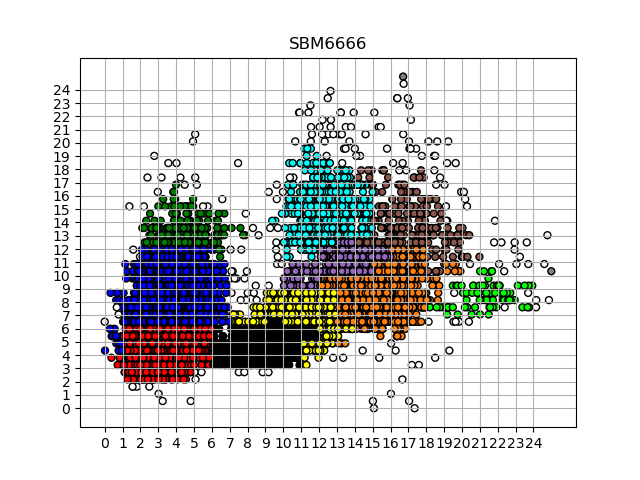
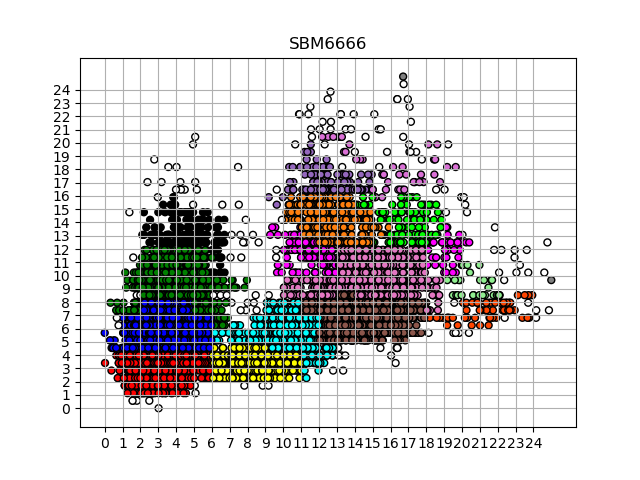
distance feature update

Changed region(s): [[0.1562, 0.1562, 0.875, 0.8438], [0.5625, 0.8125, 0.6562, 0.875], [0.2812, 0.2812, 0.3125, 0.3125]]

diff --git a/datasets.py b/datasets.py
@@ -66,6 +66,7 @@ def spike_preprocess(signal, spike_start, spike_length, align_to_peak, normalize
         return normalized_spikes
     return spikes
 
+
 def get_dataset_simulation_features(simNr, spike_length=79, align_to_peak=0, normalize_spike=False):
     """
     Load the dataset with 2 chosen features (amplitude and distance between min peaks)
@@ -79,9 +80,6 @@ def get_dataset_simulation_features(simNr, spike_length=79, align_to_peak=0, nor
     """
     spikes, labels = get_dataset_simulation(simNr, spike_length, align_to_peak, normalize_spike)
     spikes_features = np.empty((len(spikes), 2))
-    # plt.figure()
-    # plt.plot(spikes[5231])
-    # plt.savefig("./figures/FirstSpike")
 
     for i in range(len(spikes)):
         # print(i)
@@ -94,18 +92,30 @@ def get_dataset_simulation_features(simNr, spike_length=79, align_to_peak=0, nor
         amplitude_position = max_peaks[amplitude_information][0]
         spike_amplitude = max_peaks[amplitude_information][1]
 
+
         spike_distance = 0
 
-        for j in range(0, len(min_peaks)):
-            if j+1 >= len(min_peaks):
-                spike_distance = 79 - min_peaks[j][0]
-                break
-            else:
-                if min_peaks[j][0] < amplitude_position < min_peaks[j + 1][0]:
-                    spike_distance = min_peaks[j + 1][0] - min_peaks[j][0]
+        if amplitude_position < min_peaks[0][0]:
+            spike_distance = min_peaks[0][0] - 0
+        else:
+            for j in range(0, len(min_peaks)):
+                if j+1 >= len(min_peaks):
+                    spike_distance = 79 - min_peaks[j][0]
+                    # plt.figure()
+                    # plt.plot(spikes[i])
+                    # plt.savefig(f"./figures/FirstSpike{i}")
                     break
+                else:
+                    if min_peaks[j][0] < amplitude_position < min_peaks[j + 1][0]:
+                        spike_distance = min_peaks[j + 1][0] - min_peaks[j][0]
+                        break
 
         spikes_features[i] = [spike_amplitude, spike_distance]
+
+        if spike_amplitude < 0.5:
+            plt.figure()
+            plt.plot(spikes[i])
+            plt.savefig(f"./figures/Noise{i},{spike_distance}")
 
     return spikes_features, labels
 
